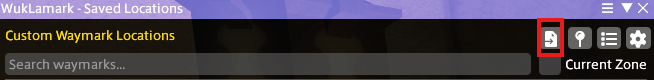
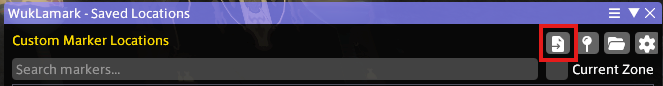
chore: update readme, version and images

diff --git a/README.md b/README.md
@@ -1,9 +1,9 @@
 # WukLamark
 A Final Fantasy XIV plugin for making custom map markers around Eorzea.
 
-| Table View | Group View |
+<!-- | Table View | Group View |
 | :---: | :---: |
-| ![WukLamark Main Window](./.github/assets/MainWindowWithMarkersTable.png) | ![WukLamark Group View](./.github/assets/MainWindowWithMarkersGroup.png) |
+| ![WukLamark Main Window](./.github/assets/MainWindowWithMarkersTable.png) | ![WukLamark Group View](./.github/assets/MainWindowWithMarkersGroup.png) | -->
 
 ## What is WukLamark?
 
@@ -68,12 +68,12 @@ A group is a collection of map markers. To create a group, switch to the Group V
 **New Map Markers**
 | Command | Window Button |
 | --- | --- |
-| ![Group Map Marker Create](./.github/assets/GroupMapMarkerCreate.png) | ![Group Map Marker Create](./.github/assets/GroupMapMarkerCreateGUI.png) 
+| ![Group Map Marker Create](./.github/assets/GroupWaymarkCreate.png) | ![Group Map Marker Create](./.github/assets/GroupWaymarkCreateGUI.png) 
 |
 
 **Existing Map Markers**
 
-![Group Map Marker Existing](./.github/assets/GroupMapMarkerExistingGUI.png)
+![Group Map Marker Existing](./.github/assets/GroupWaymarkExistingGUI.png)
 
 ## Editing a Group
 
@@ -93,31 +93,31 @@ To delete a group, click the trash icon on the right-side.
 
 ![Configuration](./.github/assets/ConfigWindow.png)
 
-### Enable Map Marker Display on Map
+### Enable Marker Display on Map
 > This option allows you to enable or disable the display of map markers on the main map.
 
-### Enable Map Marker Display on Minimap
+### Enable Marker Display on Minimap
 > This option allows you to enable or disable the display of map markers on the minimap.
 
 ### Marker Size
 > This option allows you to change the size of the map markers on the map and minimap. (Only applicable to No Icon map markers)
 
-### Fade Map Markers on Minimap Edge
+### Fade Markers on Minimap Edge
 > This option toggles the fade effect map markers apply to themselves when at the edge of the minimap.
 
-### Fade Map Markers on Map Edge
+### Fade Markers on Map Edge
 > This option toggles the fade effect map markers apply to themselves when at the edge of the map.
 
 ### Edge Fade Opacity
 > This option allows you to change the opacity of the fade effect map markers apply to themselves when at the edge of the map or minimap.
 
-### Default Shape for New Map Markers
+### Default Shape for New Markers
 > This option allows you to change the default shape for new map markers. (Only applicable to No Icon map markers)
 
 ### Show Tooltips on Hover
 > This option allows you to enable or disable the display of tooltips on hovering over a map marker (mostly for the name of the map marker).
 
-### Erase All Created Map Markers
+### Erase All Created Markers
 > This option allows you to clear all map markers created by you from the map and minimap.  
 
 ## Building from Source
